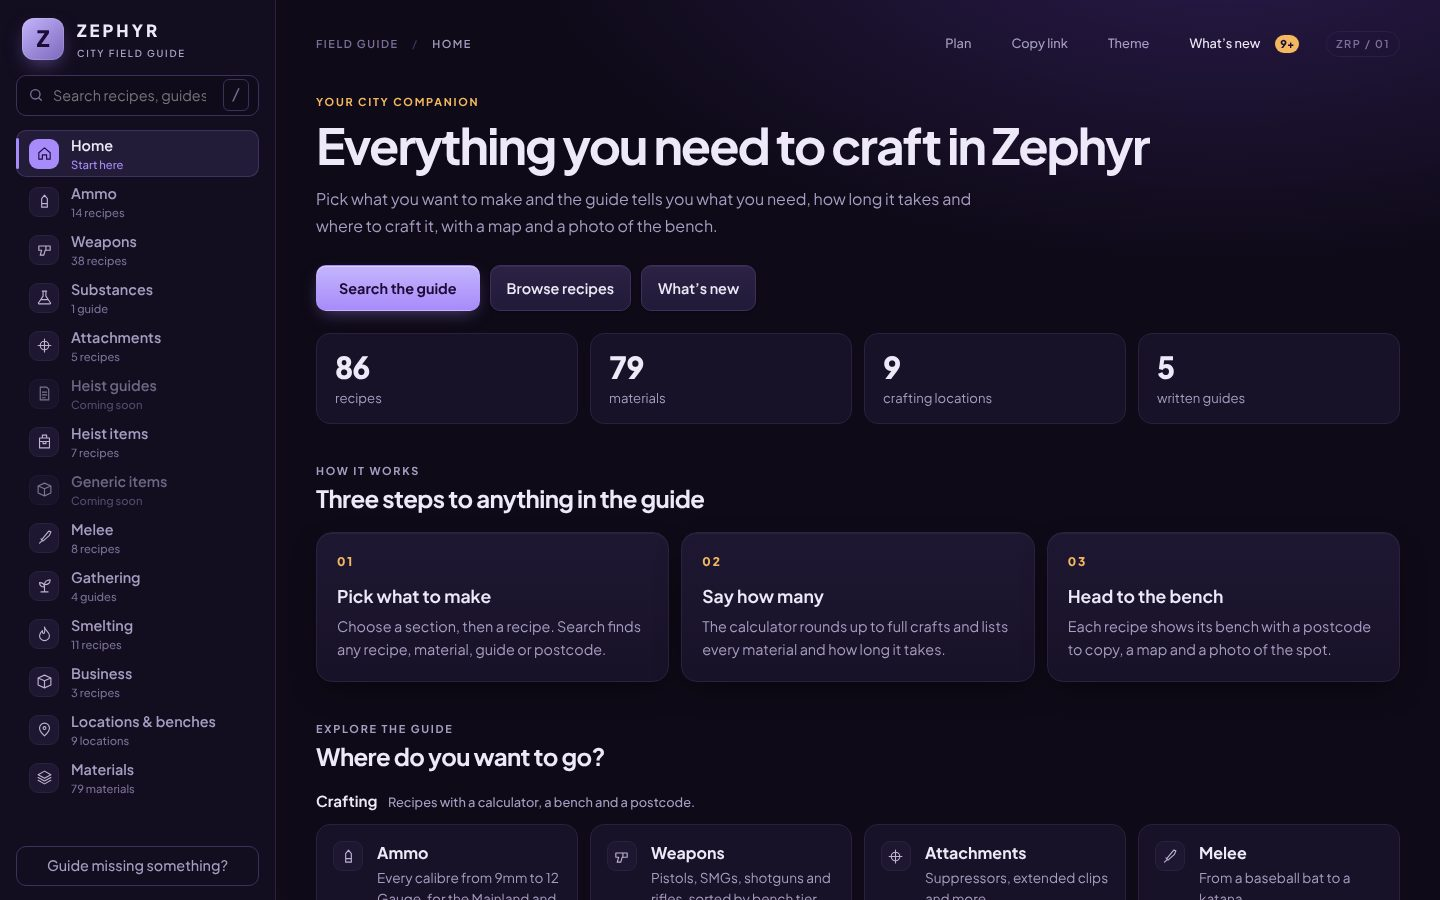
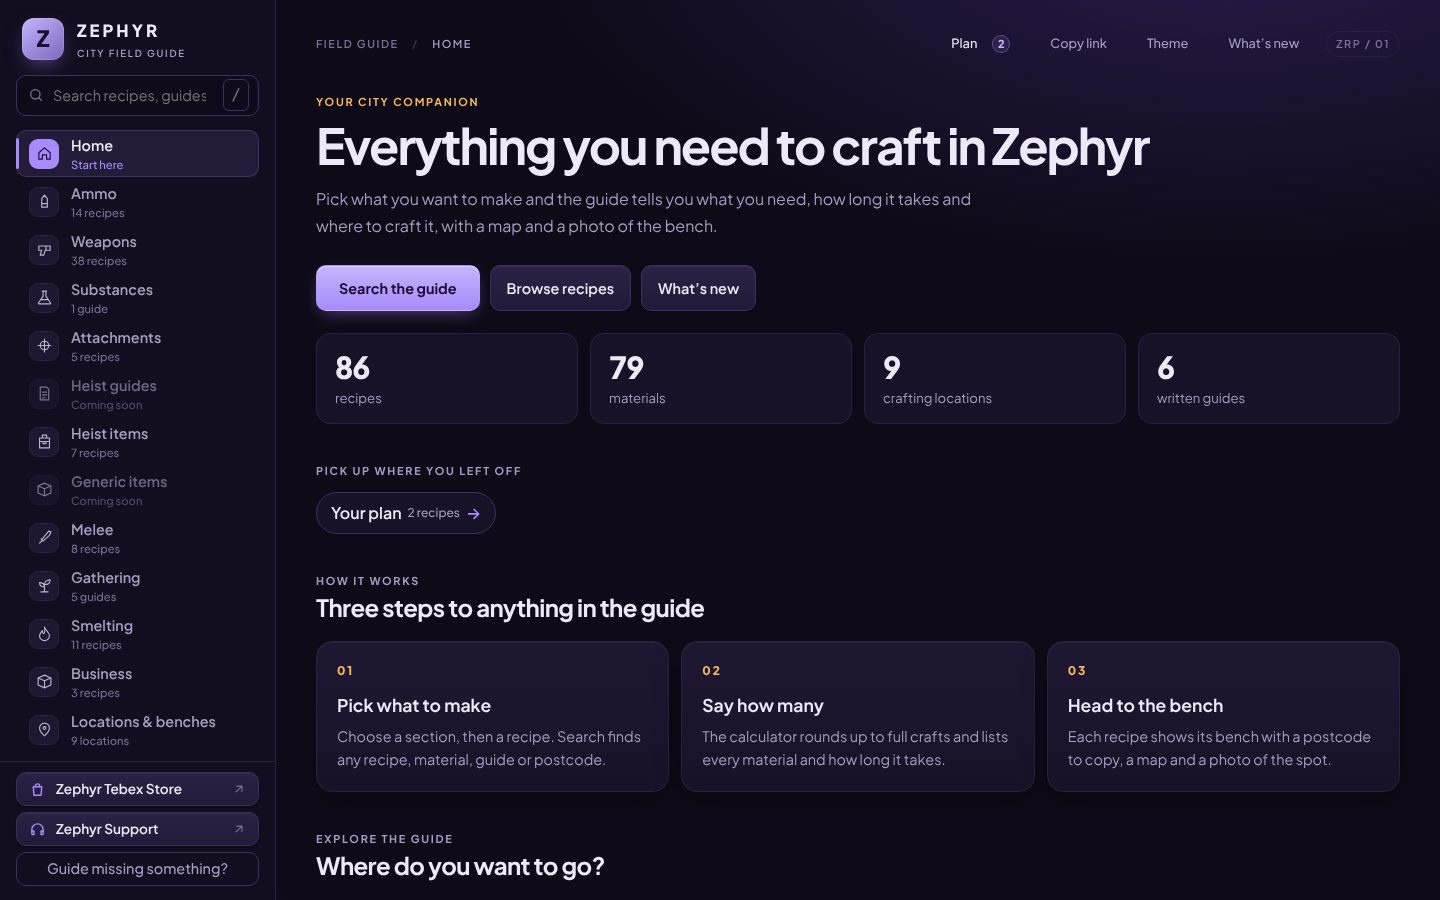
Refresh the README with new screenshots and recent features
Replace the home page screenshot, add a gallery of the smelting
calculator, crafting plan, a gathering guide and the phone layout, and
cover sell values, the new gathering guides and heist items, the Zephyr
links and the Discord contact.

Claude-Session: https://claude.ai/code/session_01JcdzM9QeEtJkNiCEdF7GFu

diff --git a/README.md b/README.md
@@ -29,20 +29,33 @@ Everything in the guide has been gathered from real play in the city. Nothing is
 | 🎯 | **Ammo** | Every calibre from 9mm to 12 Gauge, with recipes for both the Mainland and Cayo |
 | 🔫 | **Weapons** | Pistols, SMGs, shotguns and rifles, sorted by bench tier |
 | 🧪 | **Substances** | Step-by-step guides with field and lab locations |
-| 🔧 | **Attachments** | Suppressors, extended clips and more |
-| 🧰 | **Heist items** | Bolt cutters, thermite and electronic kits |
+| 🔧 | **Attachments** | Suppressors and extended clips for pistols, SMGs and rifles |
+| 🧰 | **Heist items** | Bolt cutters, thermite, electronic kits, C4, bombs and the big drill |
 | 🗡 | **Melee** | From a humble baseball bat to a katana (and a pink electric guitar) |
-| 🌿 | **Gathering materials** | Where to collect raw materials, what to bring and what you'll get |
-| 🔥 | **Smelting** | Turn raw ore into brass, steel, copper, gold and more |
+| 🌿 | **Gathering** | Guides to Hobo Camps, Bin Diving, Metal Detecting, the Scrap Yard and the Recycling Centre |
+| 🔥 | **Smelting** | Turn raw ore into brass, steel, copper, gold and more, and see what it all sells for |
 | 🔩 | **Business** | Repair kits and performance parts for mechanics |
 | 📍 | **Locations & benches** | Postcodes, map screenshots and bench photos for every spot |
 
 Heist guides and generic items are on the way.
 
+## Take a look
+
+<table>
+<tr>
+<td width="50%"><img src=".github/readme/smelting.jpg" alt="The Smelting calculator turning 500 Copper Ore into 1,200 Copper, with sell values"><br><sub><b>Smelting calculator.</b> Enter the ore you've got to see what it makes, how long it takes and what it's worth.</sub></td>
+<td width="50%"><img src=".github/readme/plan.jpg" alt="A crafting plan with 9mm and .38 LC broken down to raw materials"><br><sub><b>Crafting plan.</b> Queue up several recipes and get one shopping list, down to the raw ore.</sub></td>
+</tr>
+<tr>
+<td width="50%"><img src=".github/readme/gathering.jpg" alt="The Hobo Camps gathering guide"><br><sub><b>Gathering guides.</b> Where to go, what to bring and what you'll come back with.</sub></td>
+<td width="50%" align="center"><img src=".github/readme/phone.jpg" alt="The guide's home page on a phone" width="260"><br><sub><b>On your phone.</b> Keep it open beside the game, even with no connection.</sub></td>
+</tr>
+</table>
+
 ## Handy features
 
 - **Crafting calculator.** Say how many you need and the guide works out how many crafts it takes and every material to gather.
-- **"What can I make?"** Tell the smelter how much ore you've got and see what it turns into.
+- **"What can I make?"** Tell the smelter how much ore you've got and see what it turns into, plus what the ore, coal and finished metal sell for.
 - **Crafting plan.** Add several recipes to one list and get a single combined shopping list, minus anything you already have. The plan has its own page, amounts can be changed in the list, and it is saved on your device.
 - **Down to the ore.** Tick "Break down to raw materials" and the plan works out the smelting for you, so the list shows what to actually go and gather.
 - **Share a plan.** Copy plan link gives your crew a link that opens the same recipes and amounts.
@@ -56,6 +69,7 @@ Heist guides and generic items are on the way.
 - **Time estimates.** See roughly how long a batch will take before you commit to it.
 - **Maps and photos.** Tap any picture to enlarge it.
 - **Works on your phone.** Keep it open on a second screen or your phone while you play, or add it to your home screen.
+- **Zephyr links.** The Zephyr Tebex Store and Zephyr Support are one tap away from the menu.
 - **Works offline.** After your first visit the guide is saved on your device, so it still opens with no connection.
 
 ## How to open it
@@ -66,7 +80,10 @@ Just visit **[uxmbra.github.io/zephyr-guide](https://uxmbra.github.io/zephyr-gui
 
 Recipes change and new things get added to the city all the time. If a recipe looks off, a bench has moved, or you know something the guide doesn't, let us know and we'll get it updated.
 
-**[Report a problem →](https://github.com/uxmbra/zephyr-guide/issues/new?template=report-a-problem.yml)** (takes about a minute; screenshots welcome)
+- **Discord:** send a DM to **uxmbra** with what you saw and where.
+- **[Report a problem →](https://github.com/uxmbra/zephyr-guide/issues/new?template=report-a-problem.yml)** (takes about a minute; screenshots welcome)
+
+You'll find both under **Guide missing something?** in the guide too.
 
 <br>
 
